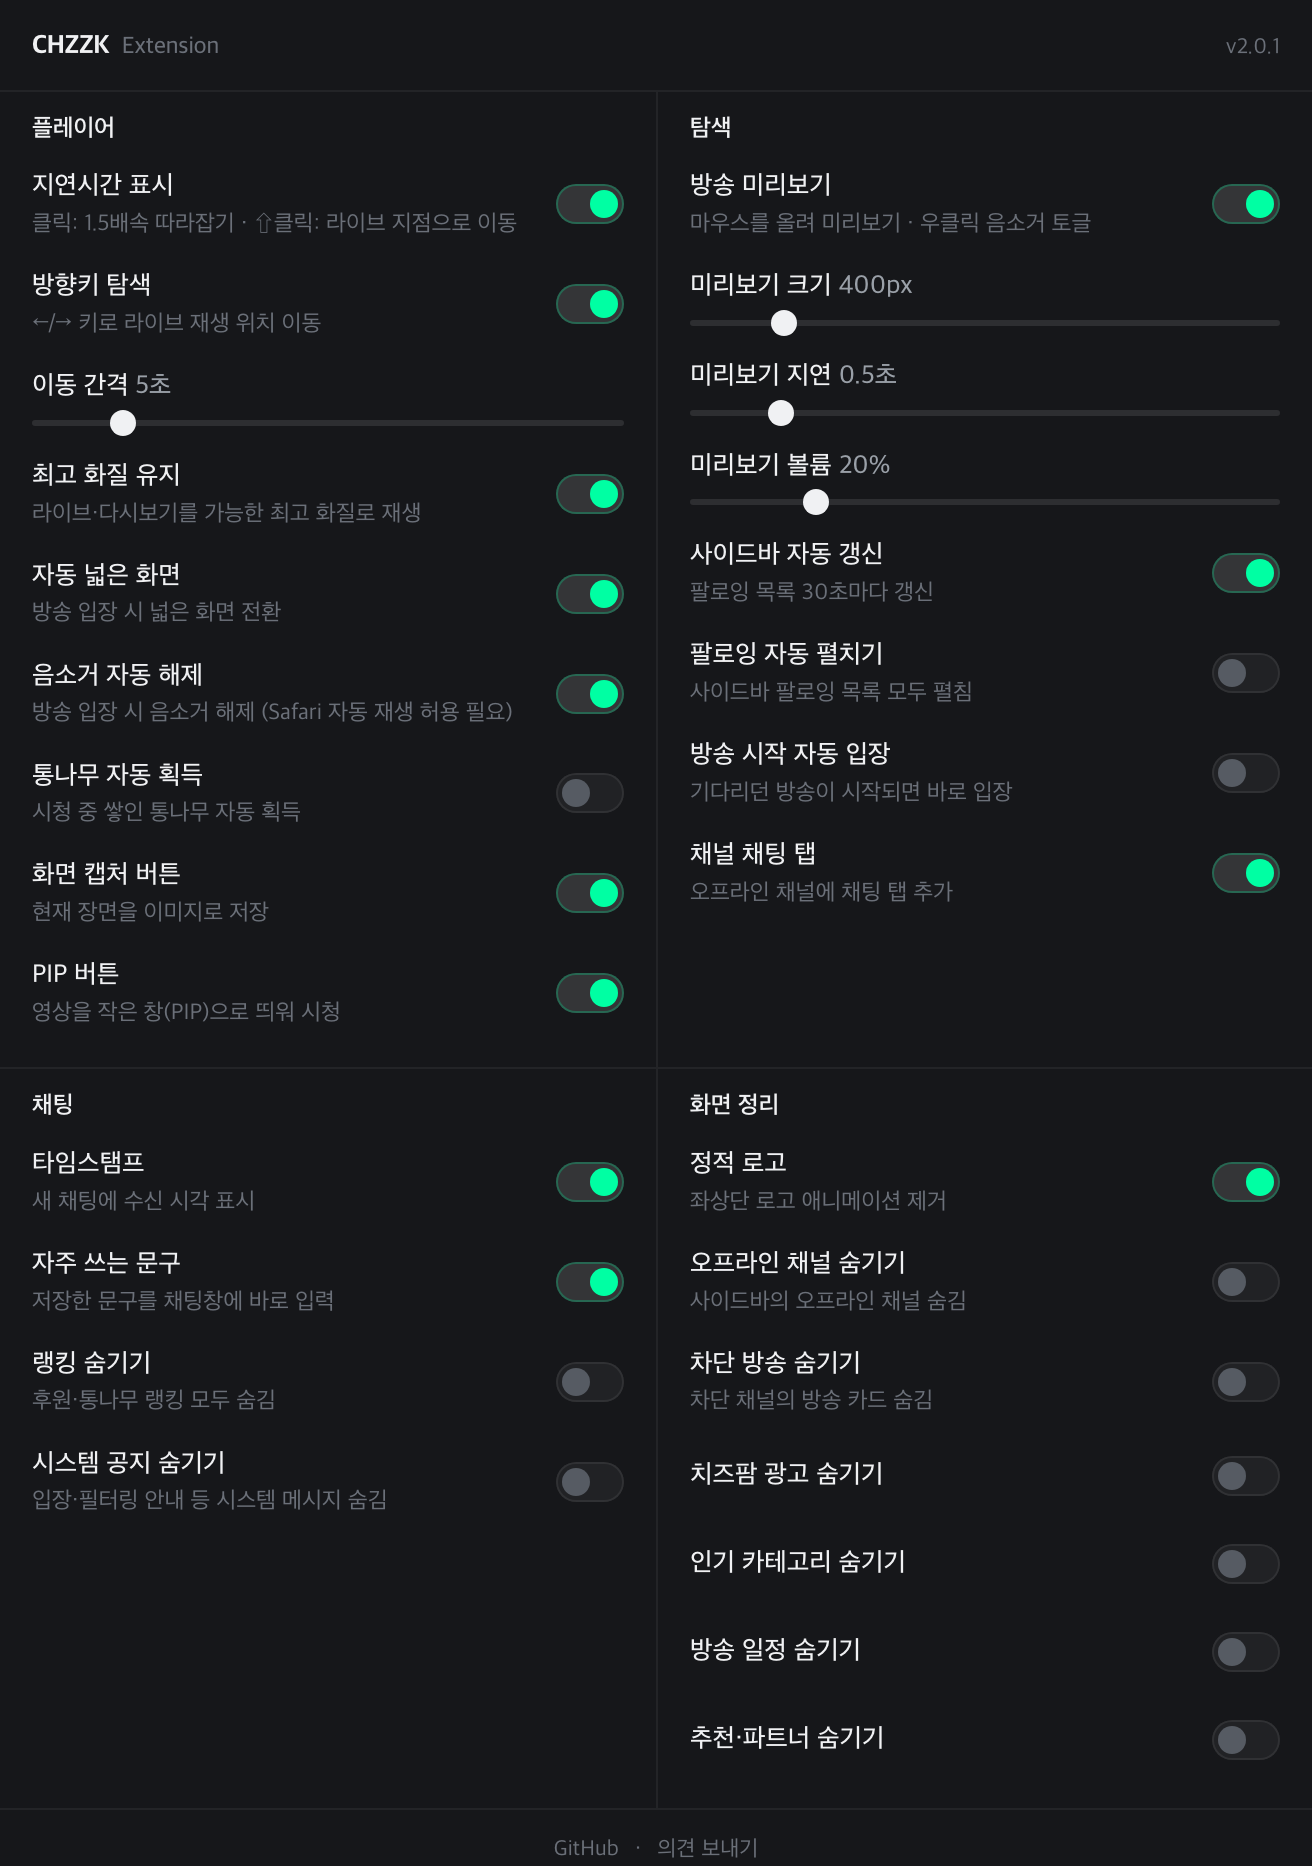
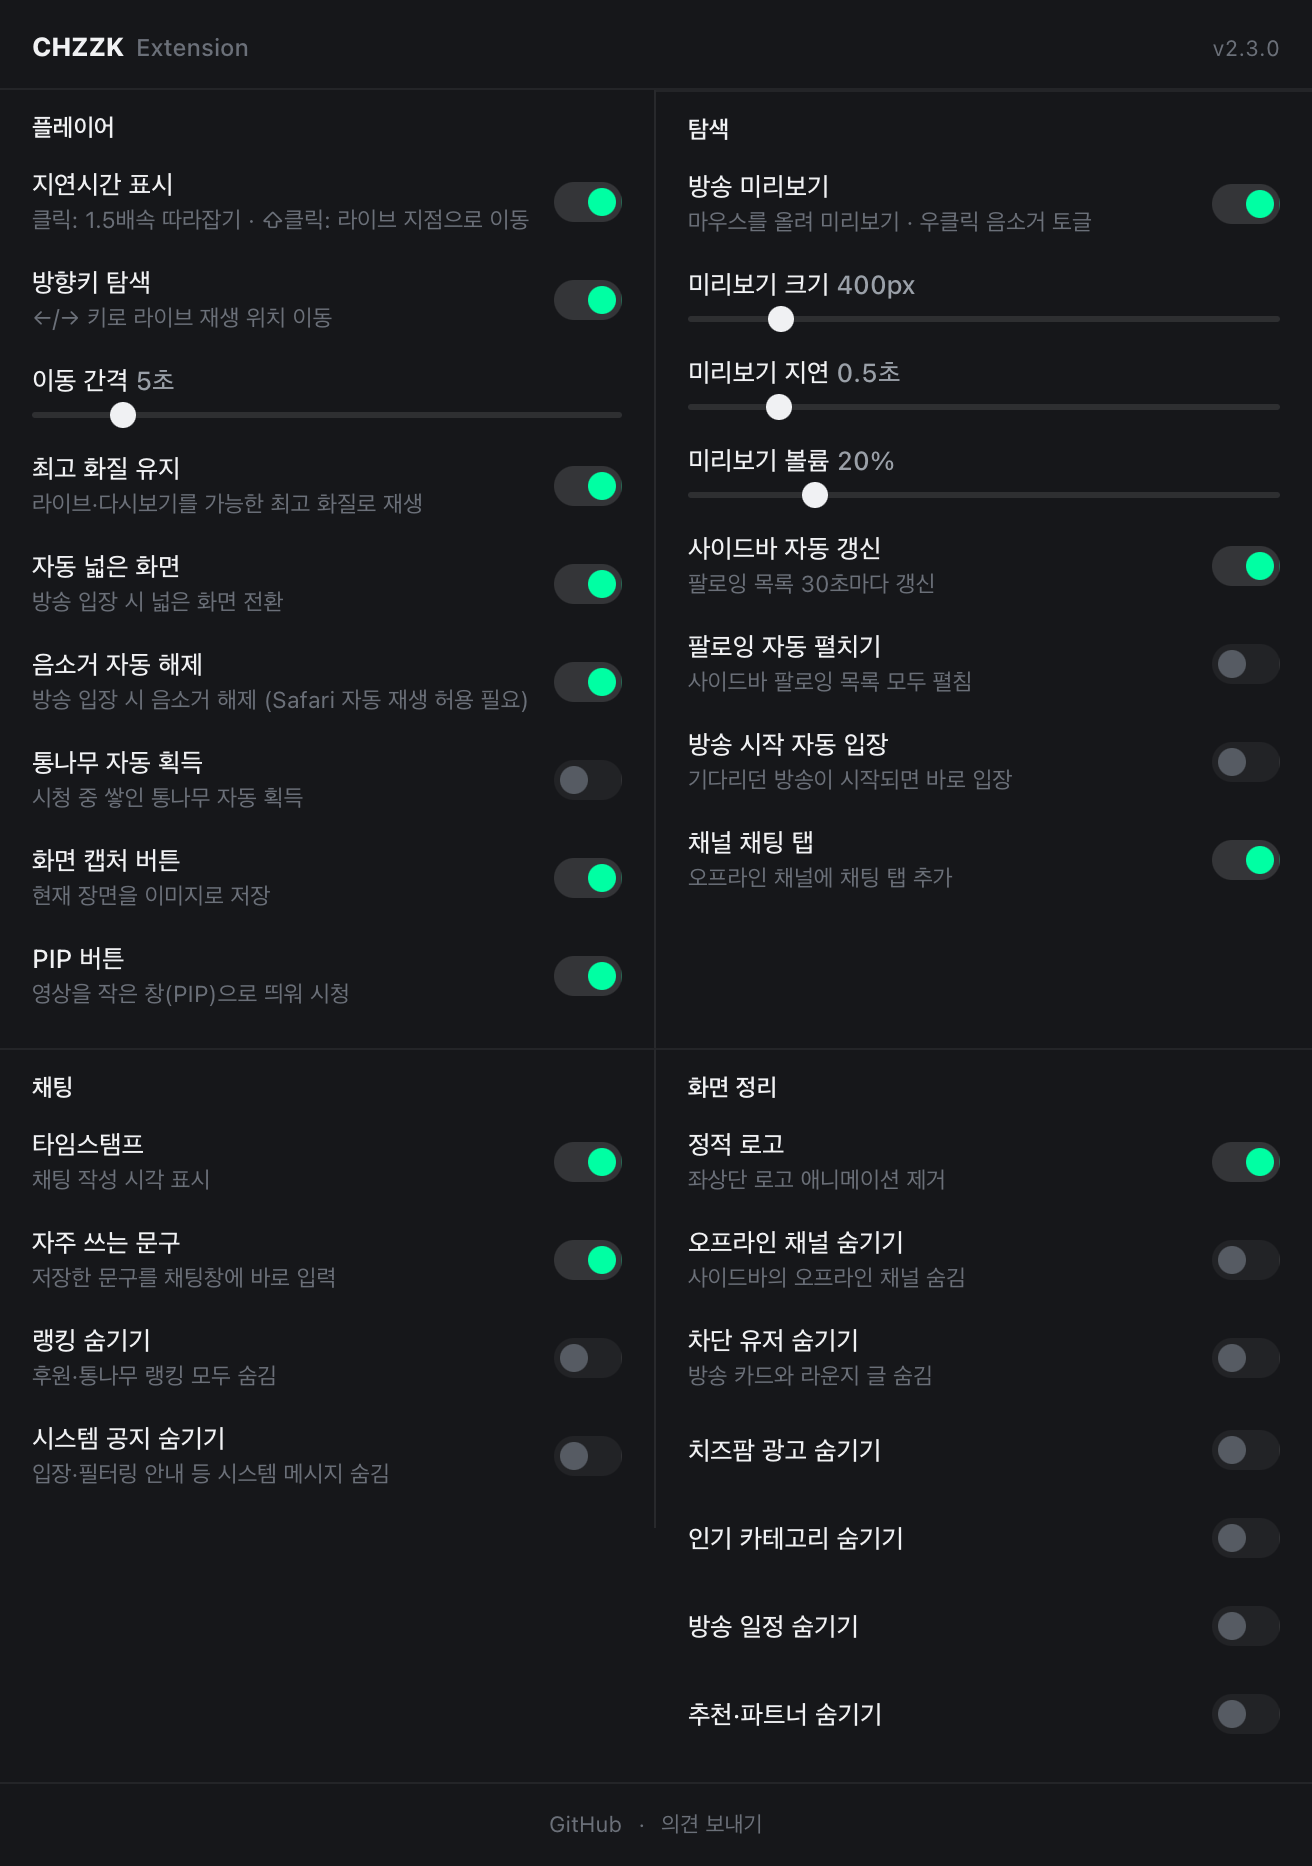
README 팝업 스크린샷을 2.3.0 으로 갱신
이미지가 v2.0.1 시점이라 세 군데가 실제와 달랐다: 버전 표기,
"차단 방송 숨기기 / 차단 채널의 방송 카드 숨김"(현재는 차단 유저 숨기기 /
방송 카드와 라운지 글 숨김), 타임스탬프 설명("새 채팅에 수신 시각 표시" →
"채팅 작성 시각 표시", 2.2.0 에서 바뀜).

배치·토글 조합은 기존 이미지와 같게 맞춰 달라진 부분만 눈에 띄게 했다.
캐시 키도 올린다 — 안 올리면 기존 방문자에게 옛 이미지가 그대로 남는다.

diff --git a/README.md b/README.md
@@ -13,7 +13,7 @@
 크롬용 확장은 많지만 Safari에서는 쓸 수 없어서, 자주 쓰던 기능만 골라 Safari Web Extension으로 다시 만들었습니다. 모든 기능은 확장 팝업에서 하나씩 켜고 끌 수 있습니다.
 
 <p align="center">
-  <img src="./assets/popup.png?v=2.1.0" width="680" alt="설정 팝업" />
+  <img src="./assets/popup.png?v=2.3.0" width="680" alt="설정 팝업" />
 </p>
 
 ## 기능
